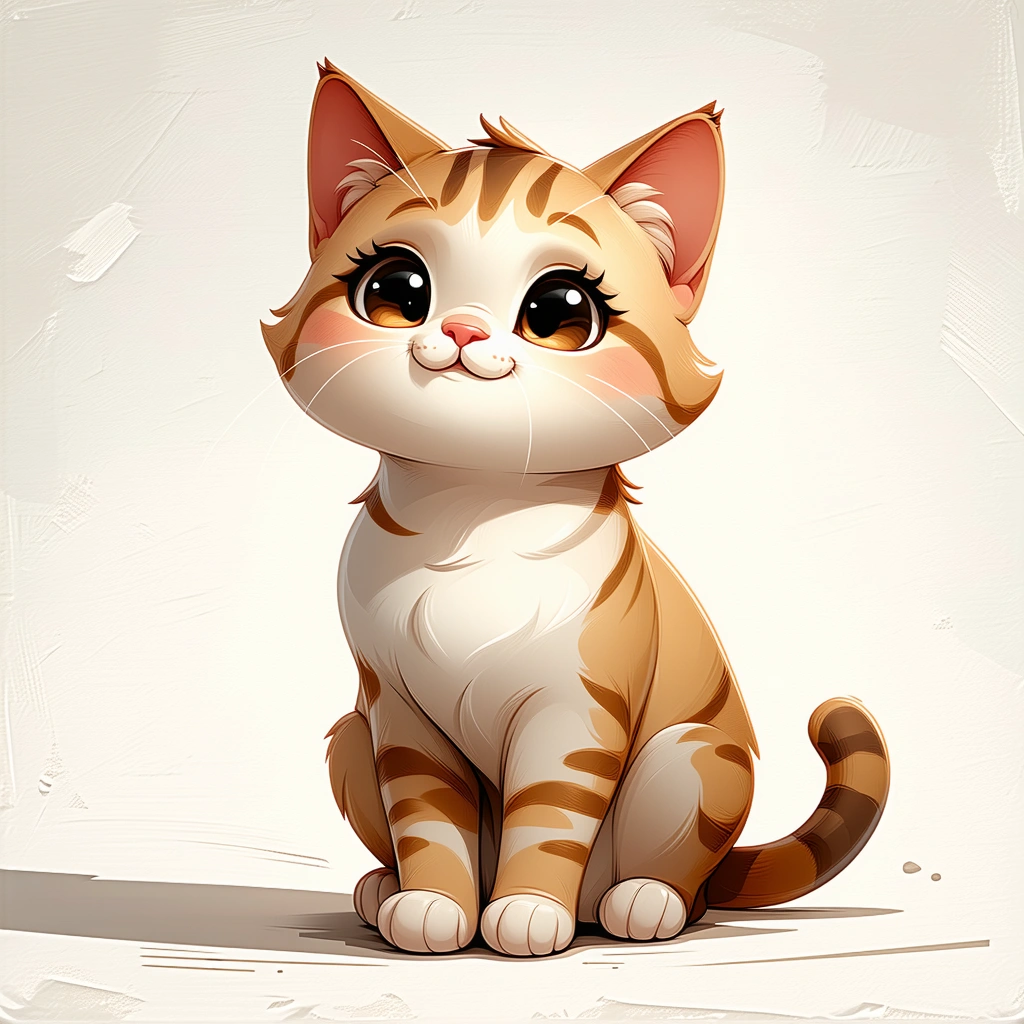
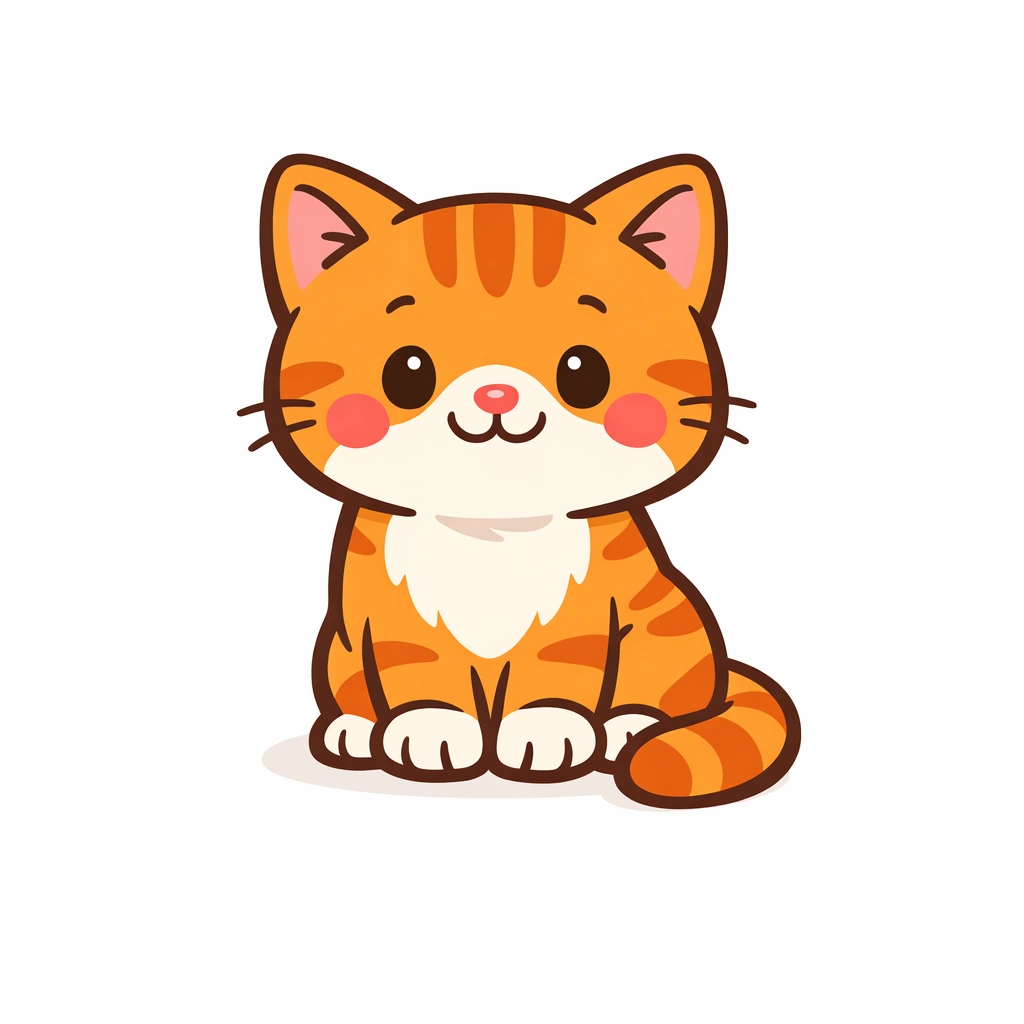
feat(resources): 26 gpt-image illustrations live + catalog expanded to 197
Chase's call: keep the 26 gpt-image renders already paid for (they go live on top
of the original sd35 set, so nothing is lost), and use the much cheaper flux-2-pro
($0.03 vs gpt-image's $0.26) for the rest once the Venice balance is topped up.
Catalog grows to 197 topics (+111) with app-rendered labels on the new diagram
ones (flower parts, tree parts, butterfly + frog life cycles). The new topics
without an asset yet degrade to a clean draw box until the flux run fills them.

diff --git a/lib/resources/illustrations.ts b/lib/resources/illustrations.ts
@@ -114,6 +114,131 @@ export const ILLUSTRATIONS: Illustration[] = [
   { key: "dragon", prompt: "a friendly cartoon dragon" },
   { key: "robot", prompt: "a friendly little robot" },
   { key: "lighthouse", prompt: "a striped lighthouse by the sea" },
+
+  // ── batch 2: wider coverage ─────────────────────────────────────────────────
+  // more land animals
+  { key: "koala", prompt: "a cute koala hugging a tree branch" },
+  { key: "hippo", prompt: "a friendly chubby hippo" },
+  { key: "rhino", prompt: "a friendly rhinoceros with one horn" },
+  { key: "crocodile", prompt: "a friendly green crocodile" },
+  { key: "snake", prompt: "a friendly curled-up snake" },
+  { key: "lizard", prompt: "a small green lizard" },
+  { key: "chameleon", prompt: "a colorful chameleon on a branch" },
+  { key: "tortoise", prompt: "a friendly land tortoise" },
+  { key: "squirrel", prompt: "a cute squirrel holding an acorn" },
+  { key: "raccoon", prompt: "a friendly raccoon" },
+  { key: "otter", prompt: "a playful otter floating on its back" },
+  { key: "seal", prompt: "a cute seal" },
+  { key: "polar-bear", prompt: "a friendly white polar bear" },
+  { key: "cheetah", prompt: "a friendly spotted cheetah" },
+  { key: "leopard", prompt: "a friendly spotted leopard" },
+  { key: "gorilla", prompt: "a friendly gorilla" },
+  { key: "sloth", prompt: "a slow smiling sloth hanging from a branch" },
+  { key: "bat", prompt: "a cute little bat" },
+  { key: "llama", prompt: "a fluffy friendly llama" },
+  { key: "camel", prompt: "a friendly camel with two humps" },
+  { key: "goat", prompt: "a friendly goat" },
+  { key: "donkey", prompt: "a friendly grey donkey" },
+  { key: "duck", prompt: "a yellow duck" },
+  { key: "chicken", prompt: "a friendly hen chicken" },
+  { key: "flamingo", prompt: "a pink flamingo standing on one leg" },
+  { key: "peacock", prompt: "a peacock with its colorful tail fanned out" },
+  { key: "swan", prompt: "a graceful white swan" },
+  // more ocean
+  { key: "clownfish", prompt: "an orange and white clownfish" },
+  { key: "pufferfish", prompt: "a round spiky pufferfish" },
+  { key: "lobster", prompt: "a red lobster with big claws" },
+  { key: "stingray", prompt: "a friendly stingray gliding" },
+  { key: "narwhal", prompt: "a narwhal with its long tusk" },
+  { key: "walrus", prompt: "a friendly walrus with tusks" },
+  { key: "coral-reef", prompt: "a colorful coral reef with fish" },
+  // more bugs
+  { key: "caterpillar", prompt: "a cute green caterpillar" },
+  { key: "dragonfly", prompt: "a colorful dragonfly" },
+  { key: "grasshopper", prompt: "a green grasshopper" },
+  { key: "snail", prompt: "a cute snail with a spiral shell" },
+  { key: "worm", prompt: "a friendly smiling earthworm" },
+  // science & nature
+  { key: "tornado", prompt: "a swirling tornado" },
+  { key: "lightning", prompt: "a lightning bolt from a storm cloud" },
+  { key: "waterfall", prompt: "a waterfall flowing into a pool" },
+  { key: "iceberg", prompt: "an iceberg floating in the sea, showing the ice below the water" },
+  { key: "glacier", prompt: "a snowy glacier" },
+  { key: "cave", prompt: "a cave entrance with stalactites" },
+  { key: "island", prompt: "a small tropical island with a palm tree" },
+  { key: "magnet", prompt: "a red horseshoe magnet" },
+  { key: "telescope", prompt: "a telescope pointing at the sky" },
+  { key: "microscope", prompt: "a microscope" },
+  { key: "thermometer", prompt: "a thermometer" },
+  { key: "compass", prompt: "a compass showing north" },
+  { key: "atom", prompt: "a simple atom with a nucleus and orbiting electrons" },
+  { key: "fossil", prompt: "a dinosaur fossil in a rock" },
+  { key: "germ", prompt: "a friendly cartoon germ" },
+  // plants
+  { key: "cactus", prompt: "a friendly cactus in a pot" },
+  { key: "mushroom", prompt: "a red and white spotted mushroom" },
+  { key: "sunflower", prompt: "a tall sunflower" },
+  { key: "rose", prompt: "a single red rose" },
+  { key: "palm-tree", prompt: "a palm tree" },
+  { key: "pine-tree", prompt: "a green pine tree" },
+  { key: "acorn", prompt: "an acorn" },
+  { key: "fern", prompt: "a green fern" },
+  { key: "flower-parts", prompt: "a single flower with its roots, stem, a leaf and petals all visible from the side", labels: ["Petal", "Stem", "Leaf", "Root"] },
+  { key: "tree-parts", prompt: "a tree showing its roots underground, trunk, branches and leaves", labels: ["Leaves", "Branch", "Trunk", "Roots"] },
+  // life cycles (labeled)
+  { key: "butterfly-life-cycle", prompt: "the four stages of a butterfly life cycle in a row: an egg, a caterpillar, a chrysalis, and a butterfly", labels: ["Egg", "Caterpillar", "Chrysalis", "Butterfly"] },
+  { key: "frog-life-cycle", prompt: "the four stages of a frog life cycle in a row: an egg, a tadpole, a froglet, and a frog", labels: ["Egg", "Tadpole", "Froglet", "Frog"] },
+  // food
+  { key: "pizza", prompt: "a slice of pizza" },
+  { key: "cake", prompt: "a birthday cake with candles" },
+  { key: "ice-cream", prompt: "an ice cream cone" },
+  { key: "egg", prompt: "a cracked egg" },
+  { key: "banana", prompt: "a ripe banana" },
+  { key: "orange-fruit", prompt: "an orange fruit" },
+  { key: "grapes", prompt: "a bunch of purple grapes" },
+  { key: "watermelon", prompt: "a slice of watermelon" },
+  { key: "carrot", prompt: "an orange carrot with green leafy top" },
+  { key: "strawberry", prompt: "a red strawberry" },
+  // body
+  { key: "lungs", prompt: "a simple pair of human lungs" },
+  { key: "eye", prompt: "a simple human eye" },
+  { key: "ear", prompt: "a simple human ear" },
+  { key: "tooth", prompt: "a single clean white tooth" },
+  // history & places
+  { key: "pyramid", prompt: "the great pyramids of Egypt with a desert sun" },
+  { key: "knight", prompt: "a friendly knight in armor" },
+  { key: "crown", prompt: "a golden crown with jewels" },
+  { key: "pirate-ship", prompt: "a pirate ship sailing on the sea" },
+  { key: "treasure-chest", prompt: "an open treasure chest full of gold coins" },
+  { key: "igloo", prompt: "a snow igloo" },
+  { key: "windmill", prompt: "a windmill" },
+  { key: "mummy", prompt: "a friendly cartoon Egyptian mummy" },
+  // vehicles & machines
+  { key: "helicopter", prompt: "a helicopter" },
+  { key: "submarine", prompt: "a yellow submarine underwater" },
+  { key: "hot-air-balloon", prompt: "a colorful hot air balloon" },
+  { key: "tractor", prompt: "a red farm tractor" },
+  { key: "fire-truck", prompt: "a red fire truck" },
+  { key: "school-bus", prompt: "a yellow school bus" },
+  { key: "ambulance", prompt: "a white ambulance" },
+  { key: "digger", prompt: "a yellow digger excavator" },
+  // people & jobs
+  { key: "doctor", prompt: "a friendly doctor in a white coat" },
+  { key: "teacher", prompt: "a friendly teacher by a chalkboard" },
+  { key: "firefighter", prompt: "a friendly firefighter in a helmet" },
+  { key: "farmer", prompt: "a friendly farmer in a straw hat" },
+  { key: "chef", prompt: "a friendly chef in a chef's hat" },
+  // music, art & objects
+  { key: "guitar", prompt: "an acoustic guitar" },
+  { key: "piano", prompt: "a grand piano" },
+  { key: "drum", prompt: "a colorful drum" },
+  { key: "violin", prompt: "a violin" },
+  { key: "paintbrush", prompt: "a paintbrush with colorful paint" },
+  { key: "books", prompt: "a stack of colorful books" },
+  { key: "clock", prompt: "a round wall clock" },
+  { key: "kite", prompt: "a colorful diamond kite with a tail" },
+  { key: "balloon", prompt: "a single red balloon" },
+  { key: "teddy-bear", prompt: "a cuddly brown teddy bear" },
 ];
 
 export const ILLUSTRATION_KEYS = new Set(ILLUSTRATIONS.map((i) => i.key));
